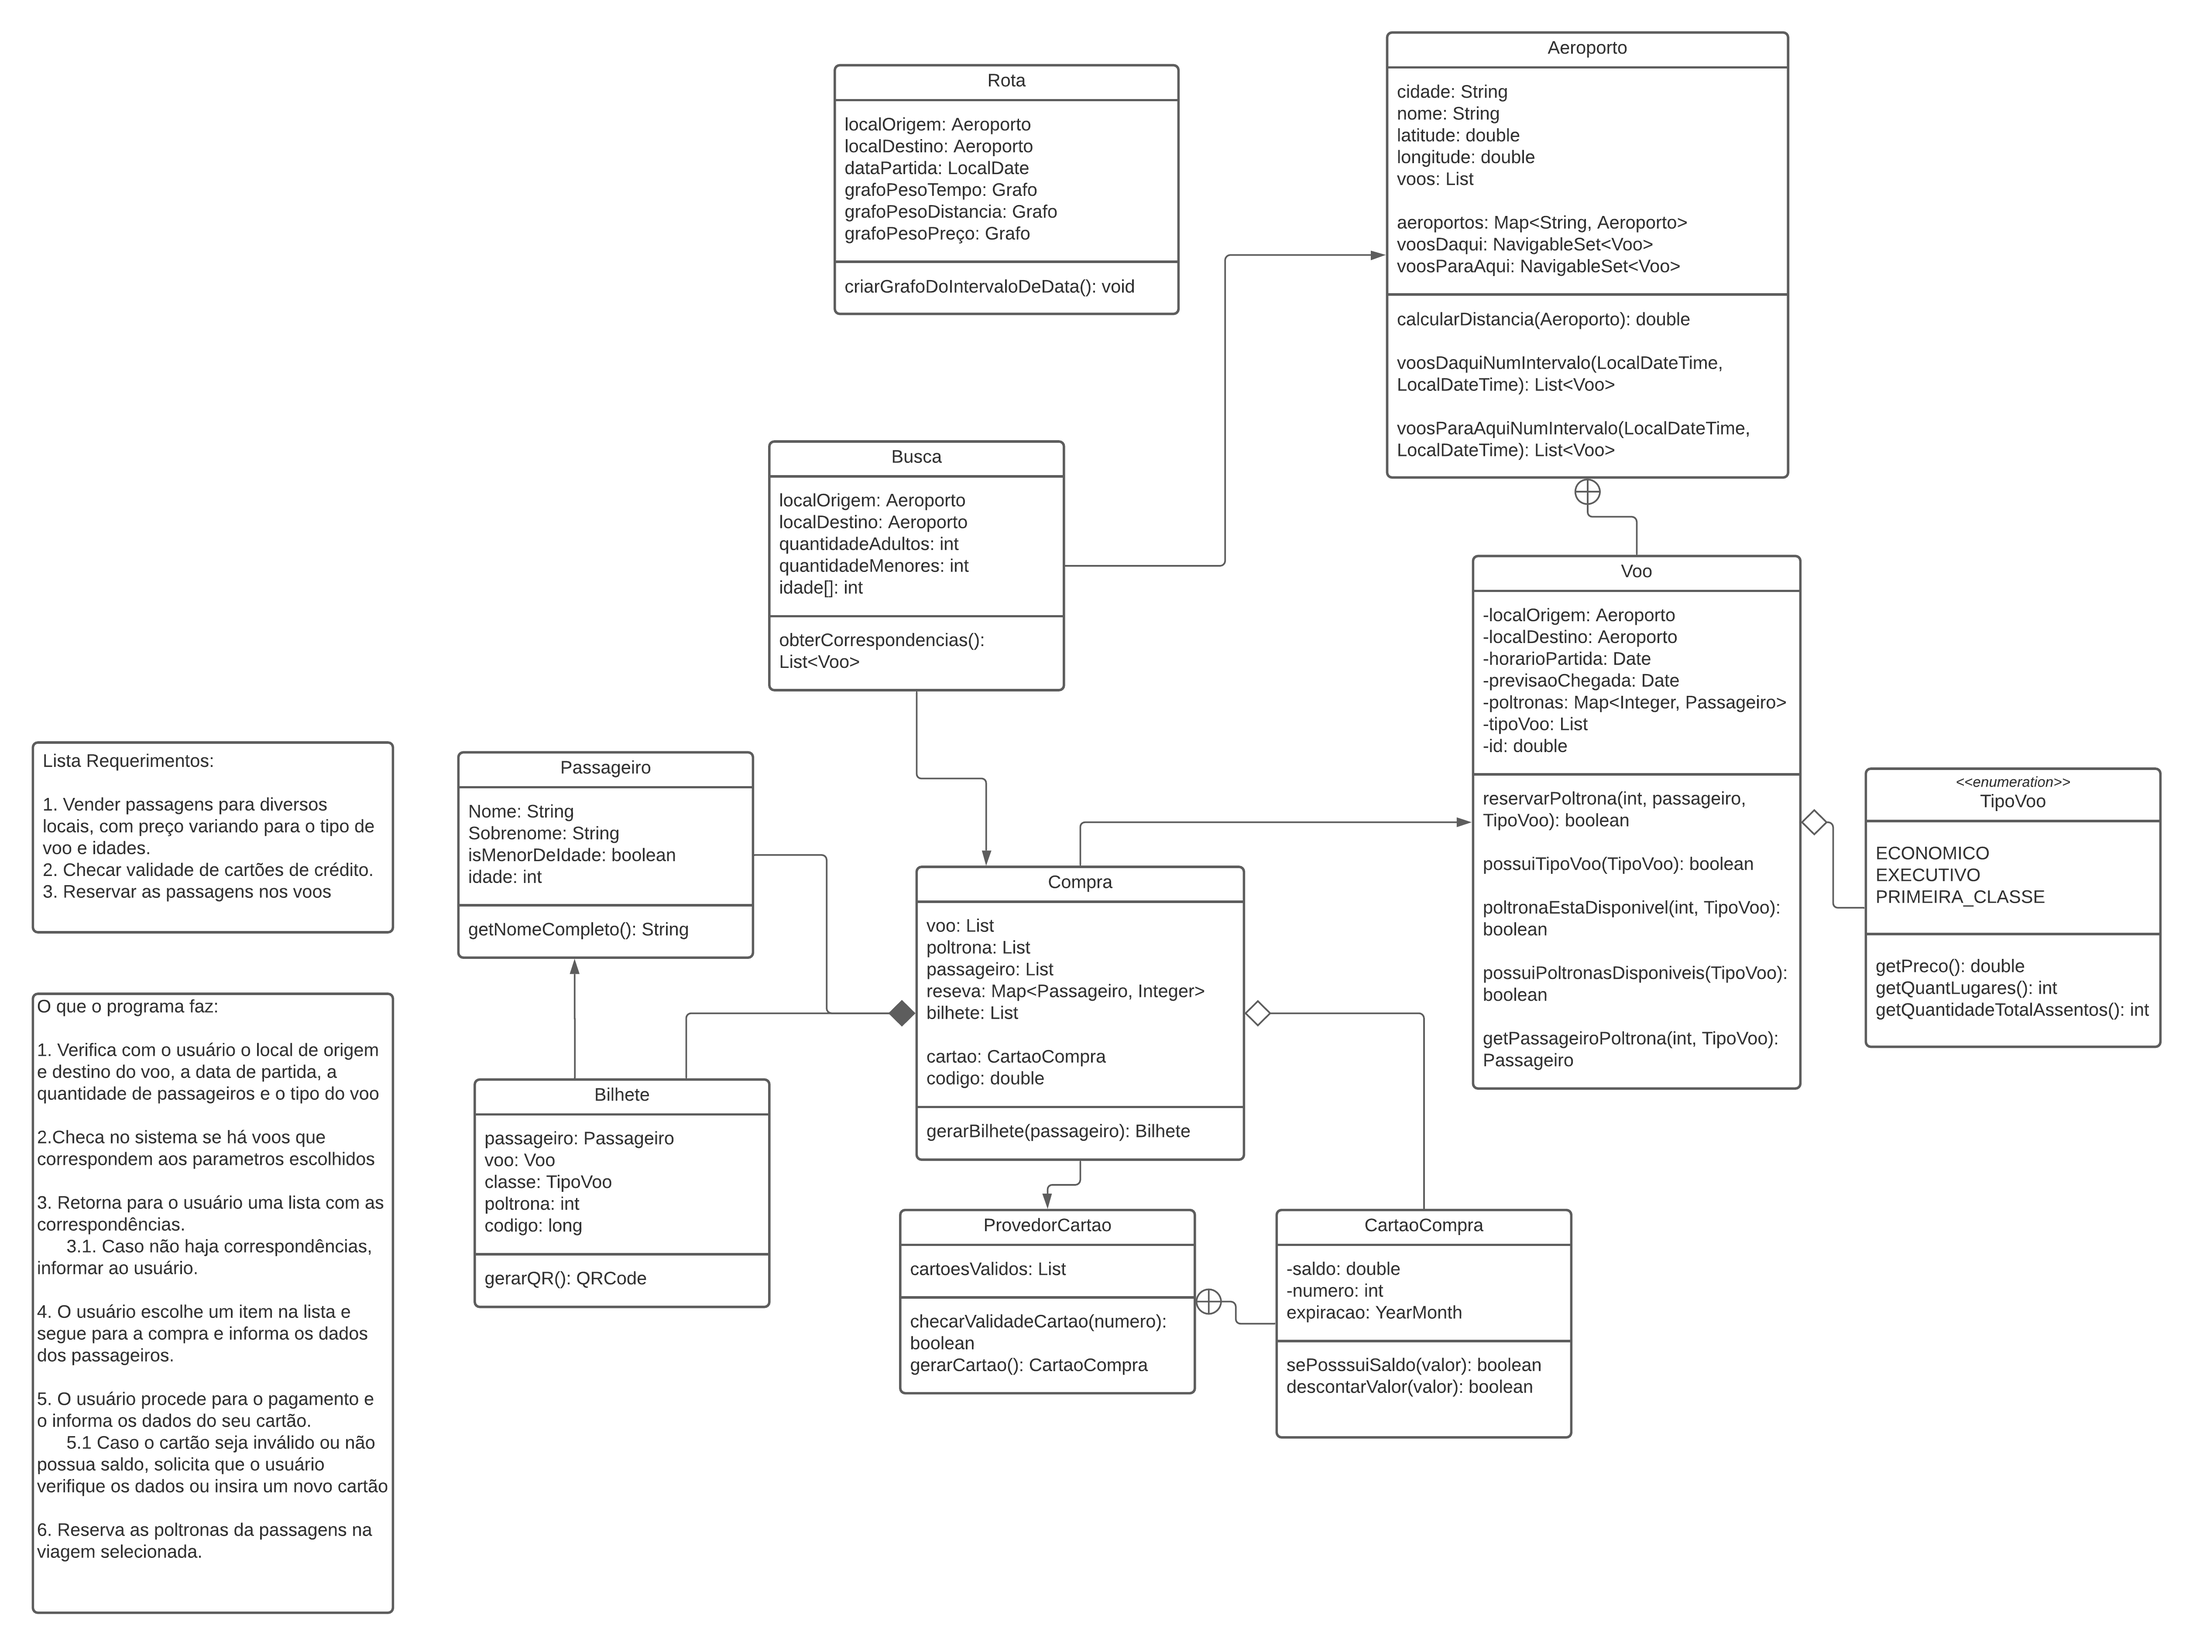
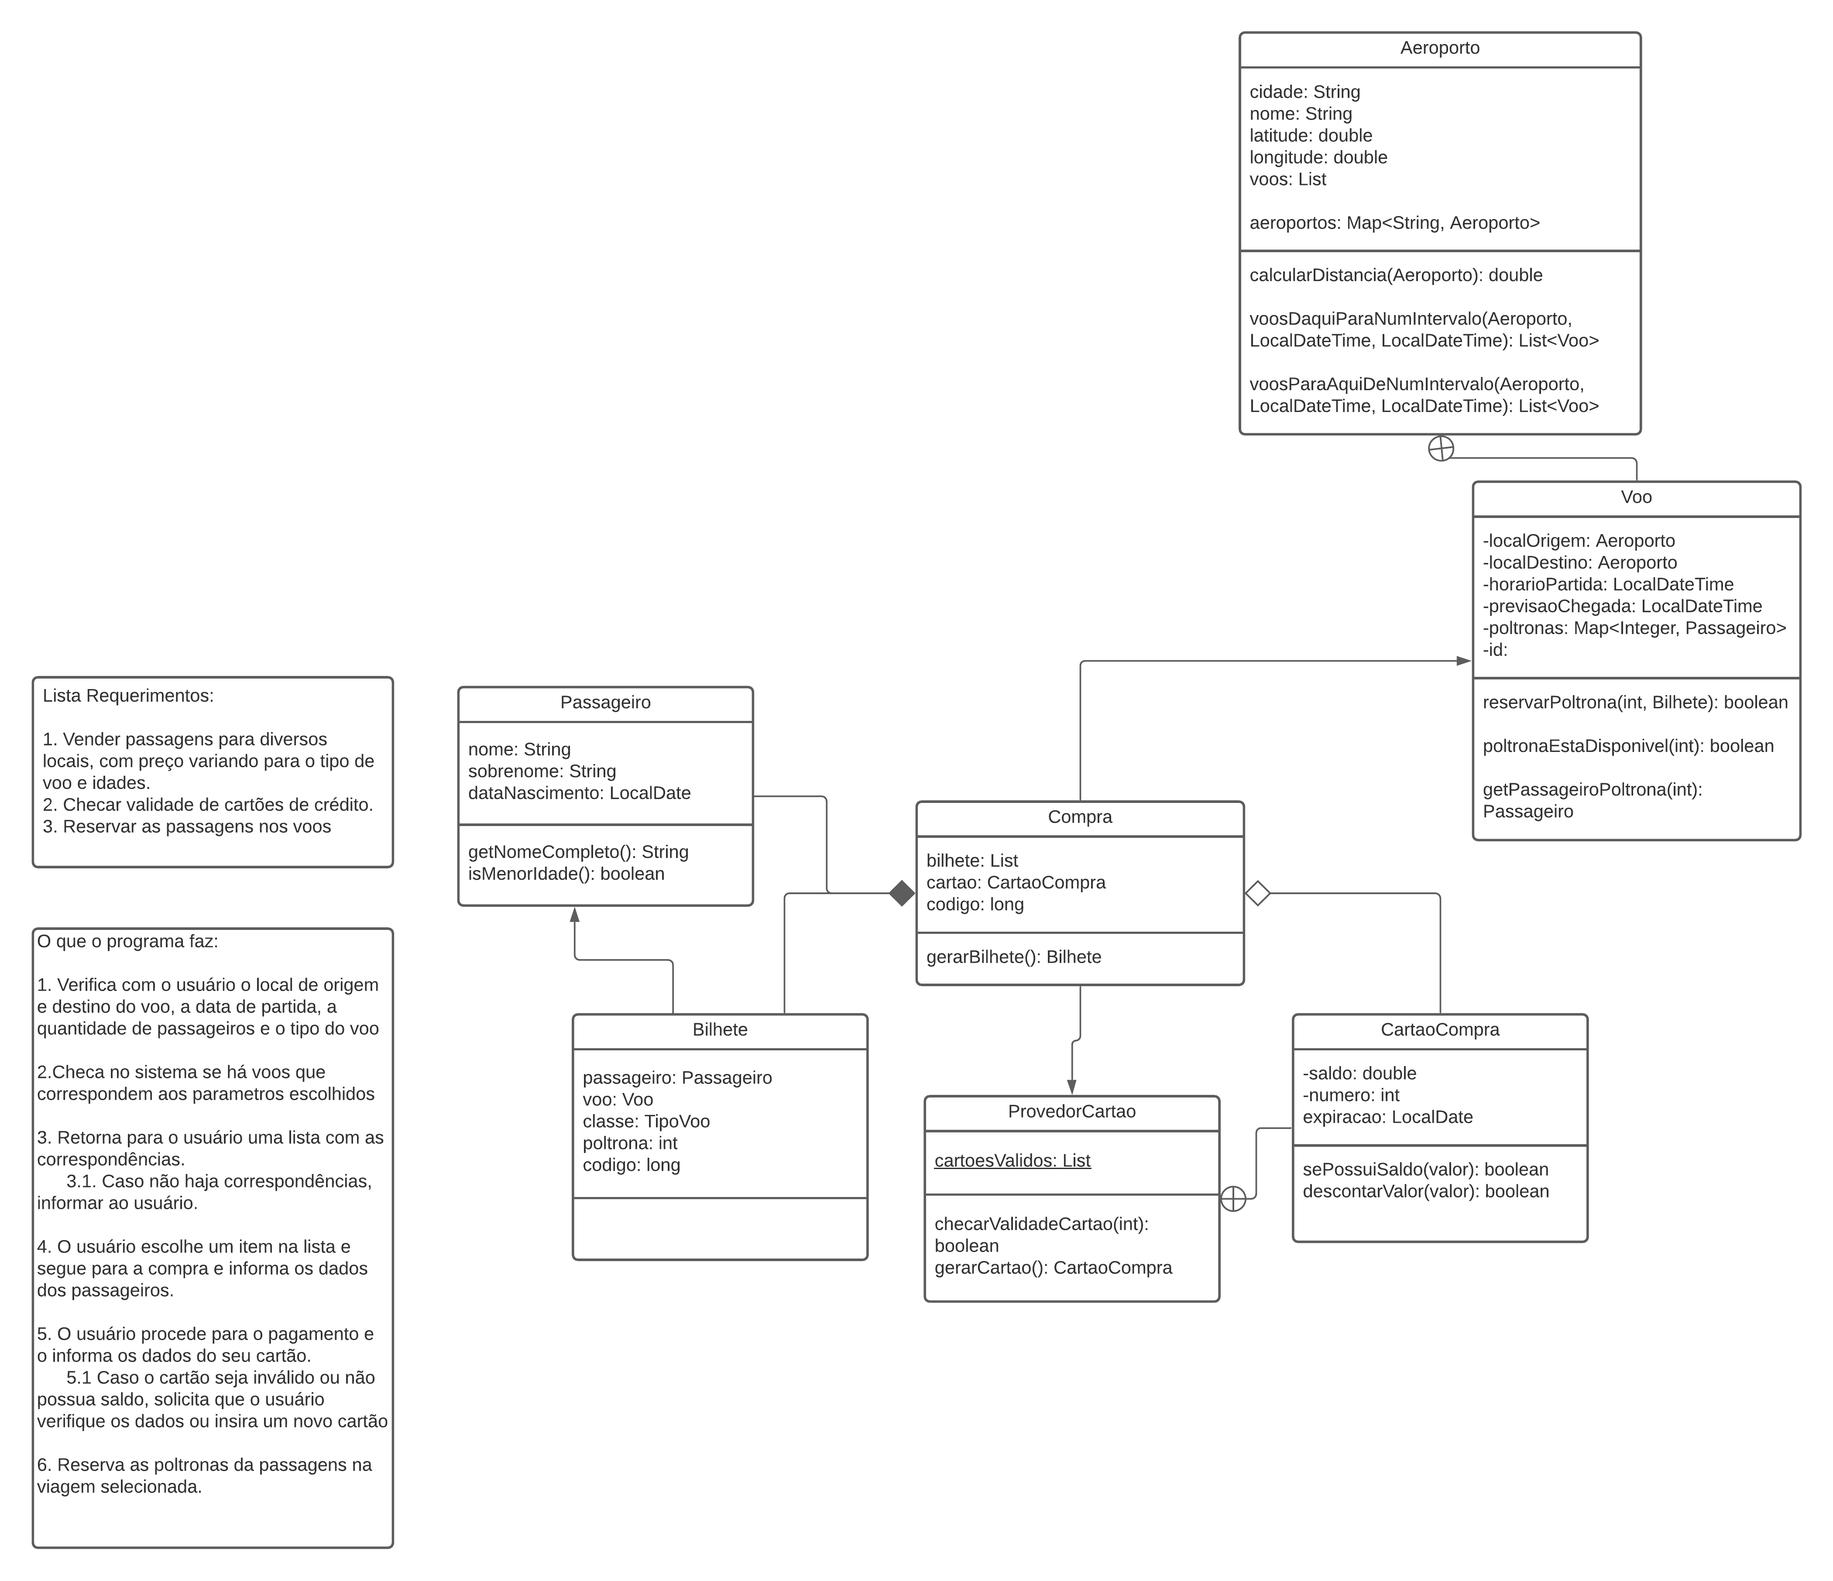
O diagrama de classes foi simplificado e o esqueleto das principais classes foi construído

Changed region(s): [[0.0, 0.0, 0.9981, 0.9669], [0.3743, 0.0312, 0.5302, 0.1871], [0.3431, 0.2495, 0.4367, 0.4367]]

diff --git a/src/main/java/com/ufgec/AP2_2021_1_site_compra_passagens_aereas/model/Aeroporto.java b/src/main/java/com/ufgec/AP2_2021_1_site_compra_passagens_aereas/model/Aeroporto.java
@@ -1,0 +1,78 @@
+package com.ufgec.AP2_2021_1_site_compra_passagens_aereas.model;
+
+import java.time.LocalDateTime;
+import java.util.List;
+import java.util.SortedMap;
+import java.util.TreeMap;
+
+public class Aeroporto {
+    private final String nome;
+    private final String sigla;
+    private final String cidade;
+    private final String estado;
+    private final String siglaEstado;
+
+    private int numeroPassageirosAno;
+
+    private final double latitude;
+    private final double longitude;
+
+    /**
+     * Nesta variável estão armazenados todos os aeroportos válidos(criados)
+     */
+    private static final SortedMap<String, Aeroporto> AEROPORTOS = new TreeMap<>();
+
+    private Aeroporto(String nome, String sigla, String cidade, String estado, String siglaEstado,
+                      int numeroPassageirosAno, double latitude, double longitude) {
+        this.nome = nome;
+        this.sigla = sigla;
+        this.cidade = cidade;
+        this.estado = estado;
+        this.siglaEstado = siglaEstado;
+        this.numeroPassageirosAno = retificarNumeroPassageirosAno(numeroPassageirosAno);
+
+        this.latitude = latitude;
+        this.longitude = longitude;
+
+    }
+
+    public String getNome() {
+        return nome;
+    }
+    public String getSigla() {
+        return sigla;
+    }
+    public String getCidade() {
+        return cidade;
+    }
+    public String getEstado() {
+        return estado;
+    }
+    public String getSiglaEstado() {
+        return siglaEstado;
+    }
+
+    /**
+     * Este método retifica a quantidade de passageiros anuais de um aeroporto para um valor menor usando uma fórmula
+     * arbitrária, tornando a quantidade de voos que serão gerados mais acessível.
+     */
+    private int retificarNumeroPassageirosAno(int numeroPassageirosAno) {
+        if (numeroPassageirosAno <= 37500)
+            return numeroPassageirosAno;
+        else
+            return (int) (50 * Math.sqrt(15 * numeroPassageirosAno));
+    }
+
+    public double calcularDistancia() {
+        return 0.0;
+    }
+
+    public List<Voo> voosDaquiParaNumIntervalo(Aeroporto para, LocalDateTime dataInicial, LocalDateTime dataFinal) {
+        return null;
+    }
+
+    public List<Voo> voosParaAquiDeNumIntervalo(Aeroporto de, LocalDateTime dataInicial, LocalDateTime dataFinal) {
+        return null;
+    }
+
+}

diff --git a/src/main/java/com/ufgec/AP2_2021_1_site_compra_passagens_aereas/model/Voo.java b/src/main/java/com/ufgec/AP2_2021_1_site_compra_passagens_aereas/model/Voo.java
@@ -1,0 +1,57 @@
+package com.ufgec.AP2_2021_1_site_compra_passagens_aereas.model;
+
+import java.time.LocalDateTime;
+import java.util.HashMap;
+import java.util.List;
+import java.util.Map;
+
+public class Voo {
+    private final Aeroporto localOrigem;
+    private final Aeroporto localDestino;
+    private final LocalDateTime horarioPartida;
+    private final LocalDateTime previsaoChegada;
+
+    private final Map<Integer, Passageiro> poltronas;
+    private long id;
+
+    Voo(Aeroporto localOrigem, Aeroporto localDestino, LocalDateTime horarioPartida) {
+        this.localOrigem = localOrigem;
+        this.localDestino = localDestino;
+        this.horarioPartida = horarioPartida;
+        previsaoChegada = null;
+
+        poltronas = new HashMap<>();
+        id = 0;
+    }
+
+    public Aeroporto getLocalOrigem() {
+        return localOrigem;
+    }
+    public Aeroporto getLocalDestino() {
+        return localDestino;
+    }
+    public LocalDateTime getHorarioPartida() {
+        return horarioPartida;
+    }
+    public LocalDateTime getPrevisaoChegada() {
+        return previsaoChegada;
+    }
+    public Map<Integer, Passageiro> getPoltronas() {
+        return poltronas;
+    }
+    public long getId() {
+        return id;
+    }
+
+    public boolean reservarPoltrona(int numeroPoltrona, Bilhete bilhete) {
+        return false;
+    }
+
+    public boolean poltronaEstaDisponivel(int poltrona) {
+        return false;
+    }
+
+    public Passageiro getPassageiroPoltrona(int poltrona) {
+        return null;
+    }
+}

diff --git a/src/main/java/com/ufgec/AP2_2021_1_site_compra_passagens_aereas/model/ProvedorCartao.java b/src/main/java/com/ufgec/AP2_2021_1_site_compra_passagens_aereas/model/ProvedorCartao.java
@@ -1,0 +1,40 @@
+package com.ufgec.AP2_2021_1_site_compra_passagens_aereas.model;
+
+import java.time.LocalDate;
+import java.util.ArrayList;
+import java.util.List;
+
+public class ProvedorCartao {
+    private static final List<CartaoCompra> cartoesValidos;
+    static {
+        cartoesValidos = new ArrayList<>();
+    }
+
+    public boolean checarValidadeCartao(int numero) {
+        return false;
+    }
+
+    public void gerarCartao() {
+
+    }
+
+    public class CartaoCompra {
+        private double saldo;
+        private final int numero;
+        private final LocalDate expiracao;
+
+        public CartaoCompra() {
+            saldo = 0;
+            numero = 0;
+            expiracao = null;
+        }
+
+        public boolean possuiSaldo(double valor) {
+            return false;
+        }
+
+        public boolean descontarValor(double valor) {
+            return false;
+        }
+    }
+}

diff --git a/src/main/java/com/ufgec/AP2_2021_1_site_compra_passagens_aereas/model/Passageiro.java b/src/main/java/com/ufgec/AP2_2021_1_site_compra_passagens_aereas/model/Passageiro.java
@@ -1,0 +1,34 @@
+package com.ufgec.AP2_2021_1_site_compra_passagens_aereas.model;
+
+import java.time.LocalDate;
+
+public class Passageiro {
+    private final String nome;
+    private final String sobrenome;
+    private final LocalDate dataNascimento;
+
+    public Passageiro(String nome, String sobrenome, LocalDate dataNascimento) {
+        this.nome = nome;
+        this.sobrenome = sobrenome;
+        this.dataNascimento = dataNascimento;
+    }
+
+    public String getNome() {
+        return nome;
+    }
+    public String getSobrenome() {
+        return sobrenome;
+    }
+    public LocalDate getDataNascimento() {
+        return dataNascimento;
+    }
+
+    public String getNomeCompleto() {
+        return nome + sobrenome;
+    }
+
+    public boolean isMenorIdade() {
+        return false;
+    }
+
+}

diff --git a/src/main/java/com/ufgec/AP2_2021_1_site_compra_passagens_aereas/model/Bilhete.java b/src/main/java/com/ufgec/AP2_2021_1_site_compra_passagens_aereas/model/Bilhete.java
@@ -1,0 +1,15 @@
+package com.ufgec.AP2_2021_1_site_compra_passagens_aereas.model;
+
+public class Bilhete {
+    private final Passageiro passageiro;
+    private final Voo voo;
+    private final int poltrona;
+    private final long codigo;
+
+    public Bilhete(Passageiro passageiro, Voo voo, int poltrona) {
+        this.passageiro = passageiro;
+        this.voo = voo;
+        this.poltrona = poltrona;
+        codigo = 0;
+    }
+}

diff --git a/src/main/java/com/ufgec/AP2_2021_1_site_compra_passagens_aereas/model/Compra.java b/src/main/java/com/ufgec/AP2_2021_1_site_compra_passagens_aereas/model/Compra.java
@@ -1,0 +1,14 @@
+package com.ufgec.AP2_2021_1_site_compra_passagens_aereas.model;
+
+import java.util.List;
+import com.ufgec.AP2_2021_1_site_compra_passagens_aereas.model.ProvedorCartao.CartaoCompra;
+
+public class Compra {
+    private List<Bilhete> bilhetes;
+    private CartaoCompra cartao;
+    private long codigo;
+
+    public Bilhete gerarBilhete() {
+        return null;
+    }
+}
